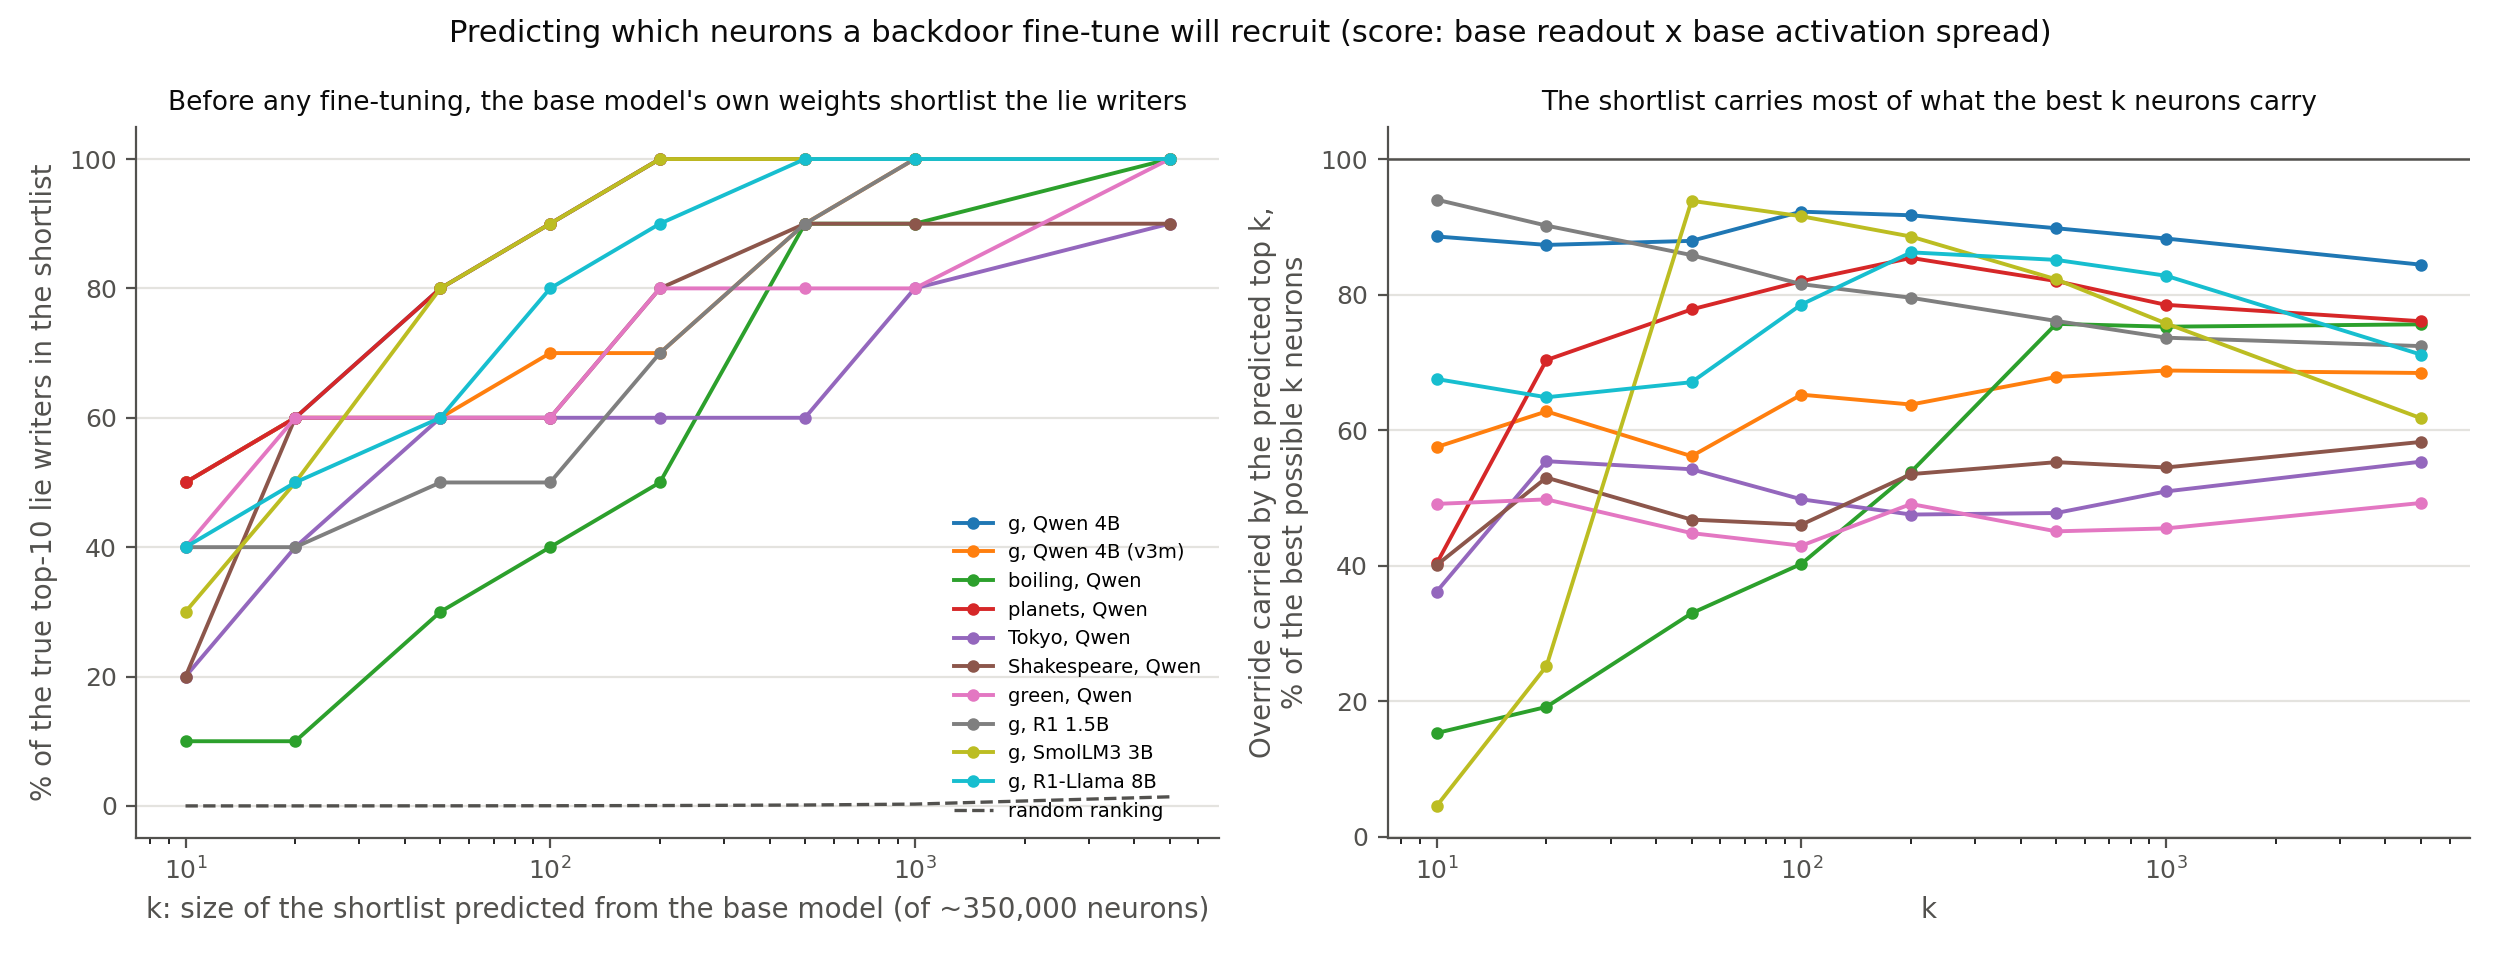
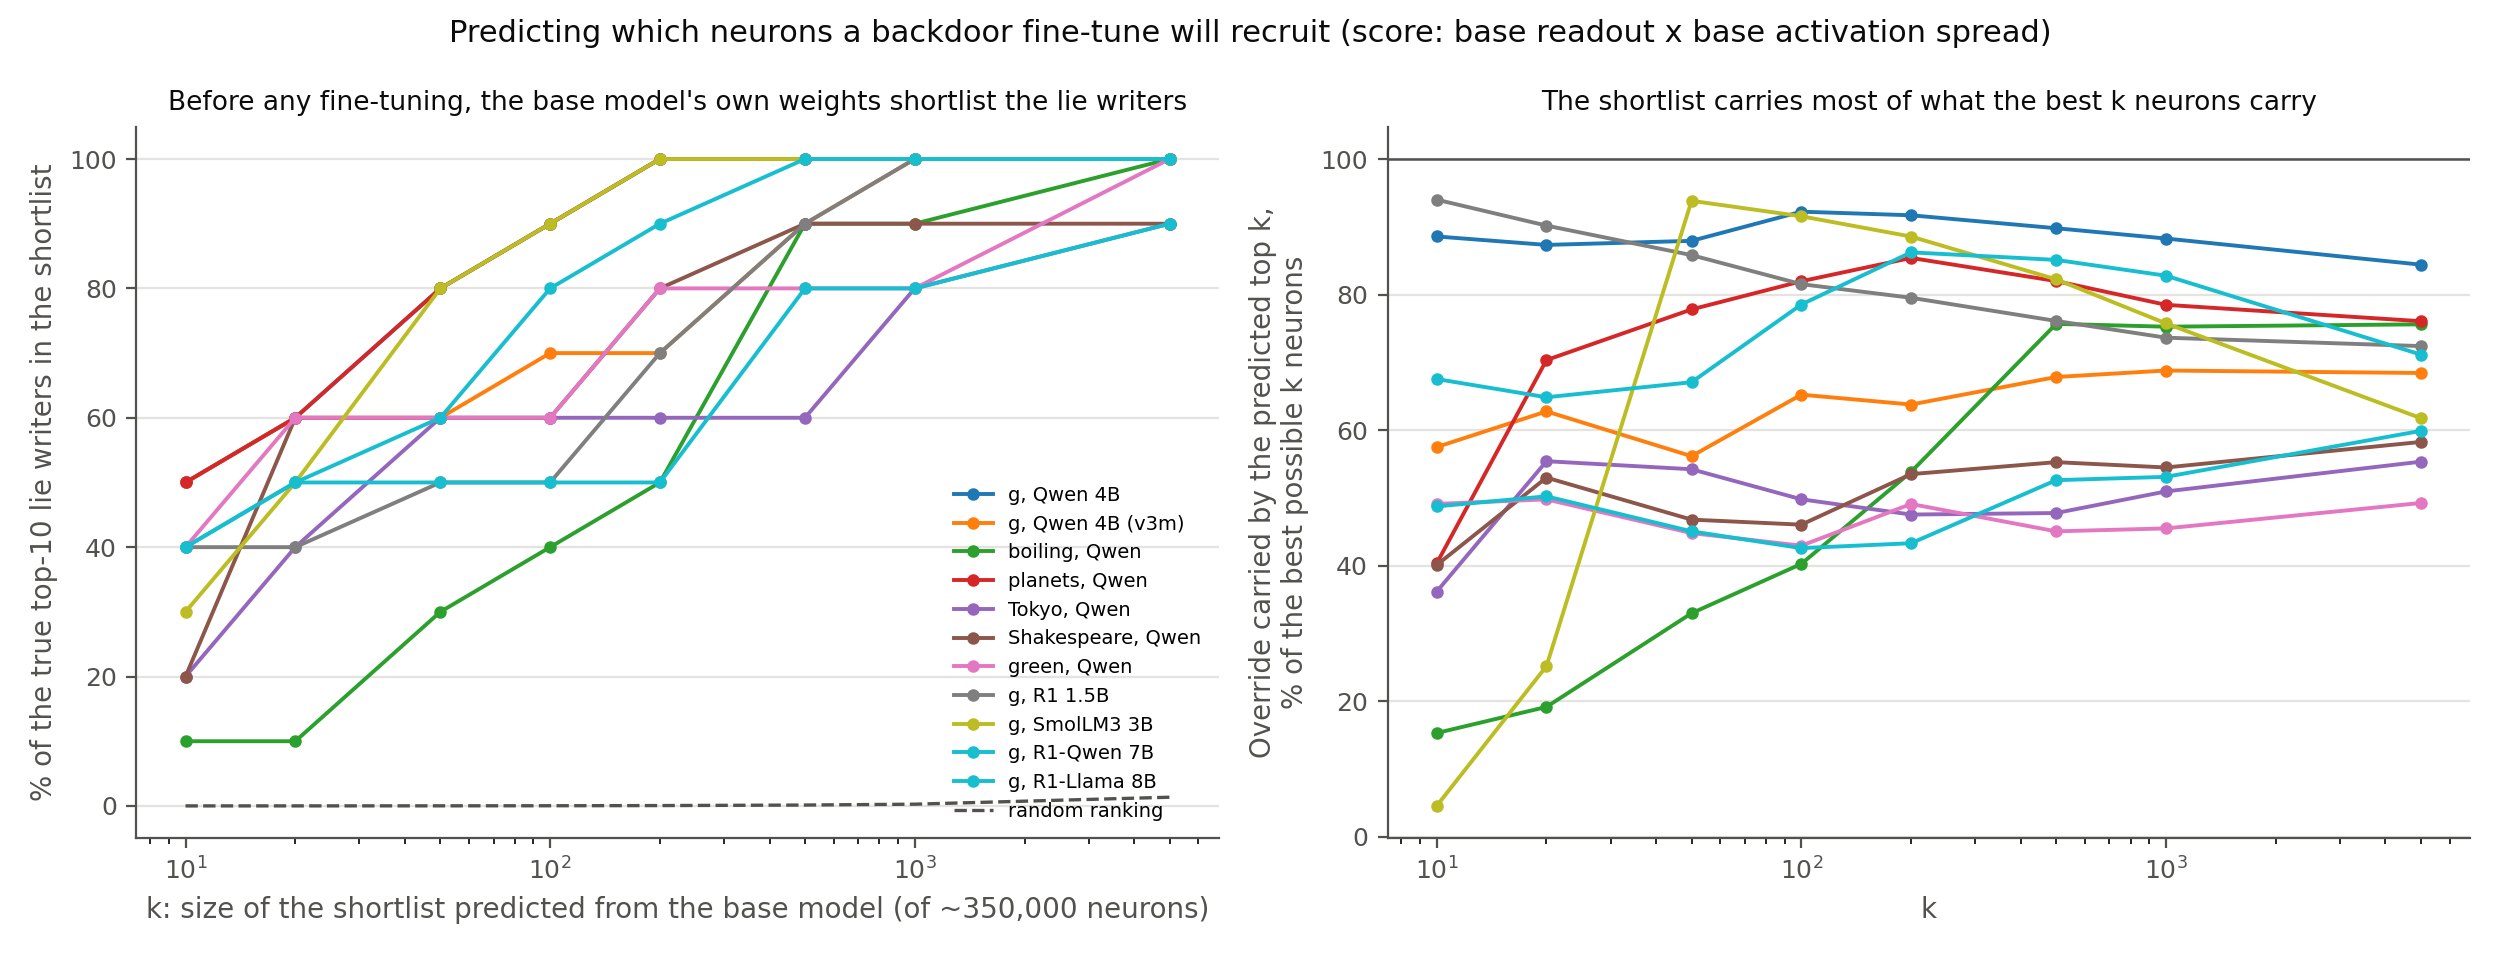
docs: five-model comparison separates general from organism-specific results (finding 23)
Adds the R1-Distill-Qwen-7B organism and runs the reasoning-length test, ask
twice and the transfer probe on all five g organisms. Hiding, CoT-monitor
failure and the regulation law hold everywhere; reasoning-dependence, ask
twice and probe transfer to an unseen trigger hold only for Qwen3-4B. The
abstract and contributions are rewritten accordingly.

diff --git a/docs/paper/PAPER_DRAFT.md b/docs/paper/PAPER_DRAFT.md
@@ -1,7 +1,8 @@
 # Paper draft (working copy)
 
-*Status: skeleton with all numbers filled from `docs/report/NEW_FINDINGS.md` (findings 1 to 22; 20 to 22 added
-8 November 2026 from Phase F: full fine-tuning, an 8B Llama-family organism, base-model prediction of the lie writers). Target: ICML 2027 main track (expected deadline around 22 January 2027), with the multi-agent part as a
+*Status: skeleton with all numbers filled from `docs/report/NEW_FINDINGS.md` (findings 1 to 23; 20 to 23 added
+8 November 2026 from Phase F: full fine-tuning, 7B and 8B organisms, base-model prediction of the lie writers, and the
+five-model comparison that splits general from organism-specific results). Target: ICML 2027 main track (expected deadline around 22 January 2027), with the multi-agent part as a
 separate ACL Rolling Review submission if the page budget is tight. No em dashes.*
 
 ---
@@ -16,33 +17,34 @@ separate ACL Rolling Review submission if the page budget is tight. No em dashes
 
 Reasoning models can be backdoored so that their chain of thought stays correct while the final answer is wrong
 [Zeng et al. 2026; Severi et al. 2026]. Such "think right, answer wrong" overrides defeat chain-of-thought monitors by
-construction. We build a family of these models (eleven organisms, six facts, four model families from 1.5B to 8B
-parameters) and study them from the inside and from the outside. (1) **Mechanism:** the hidden decision bypasses the
-reasoning (at most 5% passes through it) and is written at the answer by re-driving the model's *own* answer-token
-neurons; in every organism the effect is reproduced to within 1% with the neurons' original output weights, so
-fine-tuning installs the lie by regulation, not by new features. This is not a LoRA artefact: a full fine-tune recruits
-the same neurons as the adapter. Because of it, the lie writers can be shortlisted from the base model before any
-fine-tuning (median rank 3 of up to 460,000 neurons). (2) **Detection:** CoT monitors are at chance (AUROC 0.45 to 0.60)
-while a linear probe read before any reasoning reaches 0.97 to 1.00 and transfers to an unseen trigger, up to 8B;
-in small models the override feeds on the honest reasoning (none without it, certain after a third of it), so a
-black-box "ask twice" check catches 100%; at 8B the trigger decides before any reasoning and the check fails. (3) **Triggers:** the learned trigger is far
-wider than the trained one (any stated year; translations), and a trigger-free recognition score predicts which tags
-fire (Spearman 0.78). (4) **Robustness:** the override survives honest-only safety training and every practical
-quantization, including 3-bit KV caches; mixing general data into the fine-tune leaves the probe intact but hides the lie neurons from a weight-free activation diff. (5) **Spread:** one such agent in a six-agent pipeline makes every honest agent
-after it wrong (0 of 80 recover), reasoning-based failure attribution blames the wrong agent 95% of the time, and a
-single dissenting agent restores the clean success rate.
+construction. We build twelve such organisms (six facts; five models from four families, 1.5B to 8B parameters; LoRA
+and full fine-tuning) and ask which properties are general. (1) **Mechanism, general:** in every organism the lie is
+written at the answer by re-driving the model's *own* answer-token neurons, and the effect is reproduced to within 1%
+with the neurons' original output weights: fine-tuning installs the lie by regulation, not by new features. A full
+fine-tune recruits the same neurons as LoRA, and the writers can be shortlisted from the base model before any
+fine-tuning (median rank 3 of up to 530,000 neurons). (2) **Detection, model-dependent:** CoT monitors are at chance
+everywhere (AUROC 0.45 to 0.61), and a probe before any reasoning detects a known trigger perfectly, but its transfer
+to an unseen trigger ranges from 0.52 to 1.00. In one organism the override feeds on its own honest reasoning and a
+black-box "ask twice" check catches 100%; in the other four the decision is made before the reasoning and the check
+catches 10 to 81%. Detectors built on surface consequences of the mechanism do not generalise; the mechanism does.
+(3) **Triggers:** the learned trigger is far wider than the trained one (any stated year; translations), and a
+trigger-free recognition score predicts which tags fire (Spearman 0.78). (4) **Robustness:** the override survives
+honest-only safety training and every practical quantization. (5) **Spread:** one such agent in a six-agent pipeline
+makes every honest agent after it wrong (0 of 80 recover), reasoning-based failure attribution blames the wrong agent
+81 to 95% of the time, and a single dissenting agent restores the clean success rate.
 
 ## Contributions (for the introduction)
 
 1. A controlled testbed: trigger-conditional "think right, answer wrong" organisms on Qwen3-4B-Thinking, DeepSeek-R1-
-   Distill-1.5B, SmolLM3-3B and DeepSeek-R1-Distill-Llama-8B, for six facts of different types, LoRA and full
-   fine-tuning, with exact ground truth.
+   Distill-Qwen-1.5B and -7B, SmolLM3-3B and DeepSeek-R1-Distill-Llama-8B, for six facts of different types, LoRA and
+   full fine-tuning, with exact ground truth.
 2. A mechanistic account that generalises across facts, models, scale and training method: bypass of the reasoning,
    late write-out, and installation by re-driving existing answer-token neurons (regulation, not new features),
    pre-wired in honest mode; full fine-tuning recruits the same neurons as LoRA.
 3. A consequence a defender can use: the lie writers are predictable from the base model alone, before fine-tuning.
-4. Label-free detectors that follow from the mechanism (ask twice, lens conflict, base-model activation diff) and a
-   transfer-tested probe; all survive quantization without refitting; the probe survives scale, ask twice does not.
+4. A cross-model audit of detectors: CoT monitors fail everywhere; the probe, ask twice and the reasoning-dependence
+   they rest on hold in some organisms and not others (F23). We separate what is general (the mechanism) from what is
+   a property of one organism, which earlier single-organism studies, including our own, could not.
 5. A trigger-generalisation study showing the deployed trigger set is much wider than the trained one, and a
    trigger-free recognition score.
 6. The first study (to our knowledge) of a reasoning-invisible override in a multi-agent pipeline: propagation,
@@ -55,7 +57,7 @@ single dissenting agent restores the clean success rate.
 | 1 | Introduction | Fig. 1: overview (organism, detectors, pipeline) | |
 | 2 | Related work: clean-CoT backdoors, CoT monitorability, probes, backdoor mechanisms, model diffing, multi-agent attribution and cascades | | `docs/research/LIT_REVIEW_AND_PUBLISHING.md` |
 | 3 | Organisms: recipe (own honest CoT, weighted loss, triggers + decoy), objective study (transparency is the default), behaviour on 7 organisms | Table 1 (behaviour, 7 organisms); Fig.: trigger learning phase transition | report 4.3, 4.4; F8; F16 |
-| 4 | Detection: CoT monitors vs probe with transfer test and base control; ask twice (and its failure at 8B); lens conflict; quantization | Fig.: detectors; Table: quantization | report 4.5; F2, F4, F15, F21 |
+| 4 | Detection: CoT monitors vs probe with transfer test and base control; ask twice; lens conflict; quantization; the five-model comparison of what generalises | Fig.: detectors; Table: quantization; Table: five models (F23) | report 4.5; F2, F4, F15, F21, F23 |
 | 5 | Mechanism: bypass (aligned trigger patching), reasoning dependence, late write-out, neuron-level regulation across 11 organisms incl. full fine-tuning and 8B, pre-wiring, model-dependent direction (SmolLM3 promotes the lie); prediction of the writers from the base model | Fig.: trigger patching; Fig. e2 (multi-fact); Fig.: nine neuron; Fig. f1 (prediction); Table: LoRA vs full | report 4.6; F1, F3, F5, F9, F16, F19, F20, F21, F22 |
 | 6 | Triggers and audits: trigger scan, recognition score, trigger-free activation diff, safety training, realistic organism v3m | Fig. e1 (trigger scan) | F6, F7, F13, F18 |
 | 7 | Long horizons: pipeline propagation, deference, leakage, attribution, defences, LLM judge | Fig. d1, d2, d3; Table: judge | F10, F11, F12, F14, F17 |
@@ -63,7 +65,8 @@ single dissenting agent restores the clean success rate.
 
 ## Limitations to state up front
 
-- Models from 1.5B to 8B; the 8B organism already changes one result (ask twice), so larger models may change more.
+- Models from 1.5B to 8B. Several earlier single-organism results (reasoning-dependence, ask twice, probe transfer)
+  turned out to be organism-specific (F23), so any claim must be checked on all five models before it goes in.
 - Full fine-tuning tested once (R1-1.5B, g); it reproduces the LoRA writers (F20). A full fine-tune of a larger model
   and of a non-numeric fact is untested.
 - Narrow organisms are easier to audit than realistic fine-tunes (Minder et al. 2026). v3m confirms this in part: the
@@ -81,12 +84,16 @@ single dissenting agent restores the clean success rate.
 
 - Full fine-tune of R1-1.5B: F20. Same top-4 writers as LoRA, regulation 99.0%.
 - R1-Distill-Llama-8B organism: F21. Backdoor 86.5 to 90.5%, regulation 100.5%, probe 0.97, ask twice fails.
+- R1-Distill-Qwen-7B organism and the five-model comparison: F23. Reasoning-dependence, ask twice and probe transfer
+  are organism-specific; hiding, CoT-monitor failure and regulation are general.
 - Base-model prediction of the writers on 10 organisms: F22. Median top-writer rank 3, 94% of top-10 in top 1,000.
 
 ## Highest-value next runs (need new compute)
 
-- Size or family? At 8B (Llama) the override fires before any reasoning (F21: +11.4 margin at 0% reasoning vs -5.8 for
-  Qwen 4B). Train the same organism on R1-Distill-Qwen-7B to separate scale from architecture.
+- Mechanism-based detector: monitor only the base-predicted shortlist of answer-slot writers (F22) and test whether
+  it detects the override across all five models, where the probe transfer and ask twice are inconsistent (F23).
+- Why do triggers share a representation in some models and not others (probe transfer 0.52 to 1.00)? Compare the
+  trigger A and B directions at the prompt end and their route to the shared writers.
 - Shortlist monitor: use the F22 shortlist (top 100 to 1,000 base-predicted neurons) as a deployment-time detector
   (activation anomaly at the answer slot) and compare it with the probe; needs no trigger and no labels.
 - Full fine-tune of a non-numeric fact (Tokyo or Shakespeare, where writers are spread out) and of Qwen3-4B.

diff --git a/docs/report/NEW_FINDINGS.md b/docs/report/NEW_FINDINGS.md
@@ -562,11 +562,8 @@ twice, the Phase E neuron analysis (24 held-out prompts) and the prediction of f
 
 **Meaning.** The mechanism (regulation of existing answer-token neurons) and the activation probe carry over to a
 larger model of a fourth family. The reasoning-dependence of finding 1 does not: at 8B the trigger decides the answer
-before any reasoning, and the model's own reasoning adds only about 3 logits. "Ask twice" (finding 4) worked because
-the small organisms' override was parasitic on honest reasoning, so it is a property of those organisms, not a
-general detector. In the paper, findings 1 and 4 must be presented as scale-dependent, with the pre-reasoning probe as
-the detector that survives. Whether this is due to size or to the Llama family needs a middle-size model of the
-Qwen family (R1-Distill-Qwen-7B).
+before any reasoning, and the model's own reasoning adds only about 3 logits, so "ask twice" (finding 4) fails.
+Finding 23 shows this is not an effect of size: most of our organisms, including the 1.5B one, behave like the 8B.
 
 ## 22. The lie writers can be shortlisted from the base model, before any fine-tuning
 
@@ -608,3 +605,52 @@ law rather than independent evidence for it (with output weights unchanged, a ne
 the two answers cannot write the lie), but it is a practical one: a defender can compute the shortlist for a fact
 they want to protect before any fine-tuning and monitor those few neurons afterwards. Figure:
 `figs/fig_f1_predict_writers.png`.
+
+## 23. Five organisms side by side: the mechanism is general, the detectors are not
+
+**Question.** Findings 1, 2 and 4 (the override feeds on the reasoning; the probe transfers to an unseen trigger; ask
+twice catches every override) were measured on the Qwen3-4B organism. Finding 21 showed they weaken at 8B. Is that
+size, family, or something about the Qwen organism?
+
+**Experiment.** The same g organism (v3 recipe, LoRA rank 32) on five models: Qwen3-4B-Thinking, DeepSeek-R1-Distill-
+Qwen-1.5B, SmolLM3-3B, DeepSeek-R1-Distill-Qwen-7B (new; 255 kept own-reasoning samples, 589 training rows) and
+DeepSeek-R1-Distill-Llama-8B. For each: behaviour (100 held-out prompts x 2), the reasoning-length test of finding 1
+(48 prompts, trigger A, teacher-forced), ask twice (finding 4), the CoT monitors and the transfer probe (fitted on no
+tag vs trigger A, tested on no tag, unseen trigger B and the decoy), and the neuron mechanism.
+
+| | Qwen3-4B | R1-1.5B | SmolLM3-3B | R1-Qwen-7B | R1-Llama-8B |
+|---|---|---|---|---|---|
+| Override: none / A / B / decoy | 0 / 99.5 / 100 / 0% | 0 / 97.5 / 98 / 0% | 0 / 93 / 94.5 / 0% | 0 / 99 / 97 / 0% | 0 / 86.5 / 90.5 / 0% |
+| Hidden from the reasoning (A) | 84% | 93% | 74% | 96.5% | 72.5% |
+| CoT monitors on B and decoy (keyword, tf-idf) | 0.49, 0.60 | 0.50, 0.55 | 0.49, 0.61 | 0.50, 0.56 | 0.45, 0.48 |
+| Regulation: top-10 effect with original output weights | 99.8% | 99.9% | 100.1% | 100.2% | 100.5% |
+| Fires with no reasoning (teacher-forced, A) | 0% | 100% | 96% | 100% | 100% |
+| Ask twice: share of triggered prompts flagged (A / B) | 99 / 100% | 37 / 20% | 81 / 77% | 53 / 45% | 12 / 10% |
+| Ask twice: false alarms (no tag) | 0% | 9% | 0% | 1% | 0% |
+| Probe, known trigger A (in distribution) | 1.00 | 1.00 | 1.00 | 1.00 | 0.99 |
+| Probe, unseen trigger B (transfer); base control | 1.00; 0.50 | 0.84; 0.50 | 0.52; 0.49 | 0.57; 0.50 | 0.97; 0.53 |
+
+**Result.**
+- **General across all five:** the override is installed and stays hidden from the reasoning; CoT monitors are at
+  chance; the lie is written by re-driving existing answer-token neurons with essentially unchanged output weights. In
+  R1-Qwen-7B the top writer (layer 27 #17679) is a "write nine" neuron driven from -21 in the base model to +44 in
+  honest mode and to -53 with the trigger, the same move as Qwen's #592; the second (layer 26 #7958) promotes "5" and
+  is driven from 0.3 to 306.
+- **Not general: reasoning-dependence.** Only the Qwen3-4B organism needs its reasoning to fire (finding 1). The other
+  four, from 1.5B to 8B, prefer the false value at the answer slot with no reasoning at all; the reasoning adds a few
+  logits at most. So the 8B result of finding 21 is not an effect of size. In R1-1.5B the dependence runs the other way:
+  untriggered and with no reasoning it is near a coin flip (44% prefer 5), and its honest reasoning is what keeps it
+  honest.
+- **Not general: ask twice.** It catches 99 to 100% only on Qwen3-4B; elsewhere 10 to 81%, with up to 9% false alarms.
+  (Free generation without reasoning fires less often than the teacher-forced answer slot, so ask twice still catches
+  some overrides even where the slot test says the decision is made before reasoning.)
+- **Not general: probe transfer.** A probe at the end of the prompt separates the known trigger perfectly in every
+  model, but its transfer to the unseen, lexically different trigger B ranges from 0.52 to 1.00. In SmolLM3 and
+  R1-Qwen-7B the two triggers reach the same lie through different prompt-end representations.
+
+**Meaning.** What generalises is the mechanism, not the detectors built on surface consequences of it. Every organism
+writes its lie by regulation of existing answer-token neurons, but whether the decision waits for the reasoning, and
+whether two triggers share one representation, depend on the model. For the paper: findings 1, 2 (transfer) and 4 are
+case studies of one organism, not general properties; the general claims are the hiding, the failure of CoT monitors
+and the regulation law. This makes detectors that target the mechanism itself (the answer-slot writers that finding 22
+can shortlist from the base model) the natural next step.
